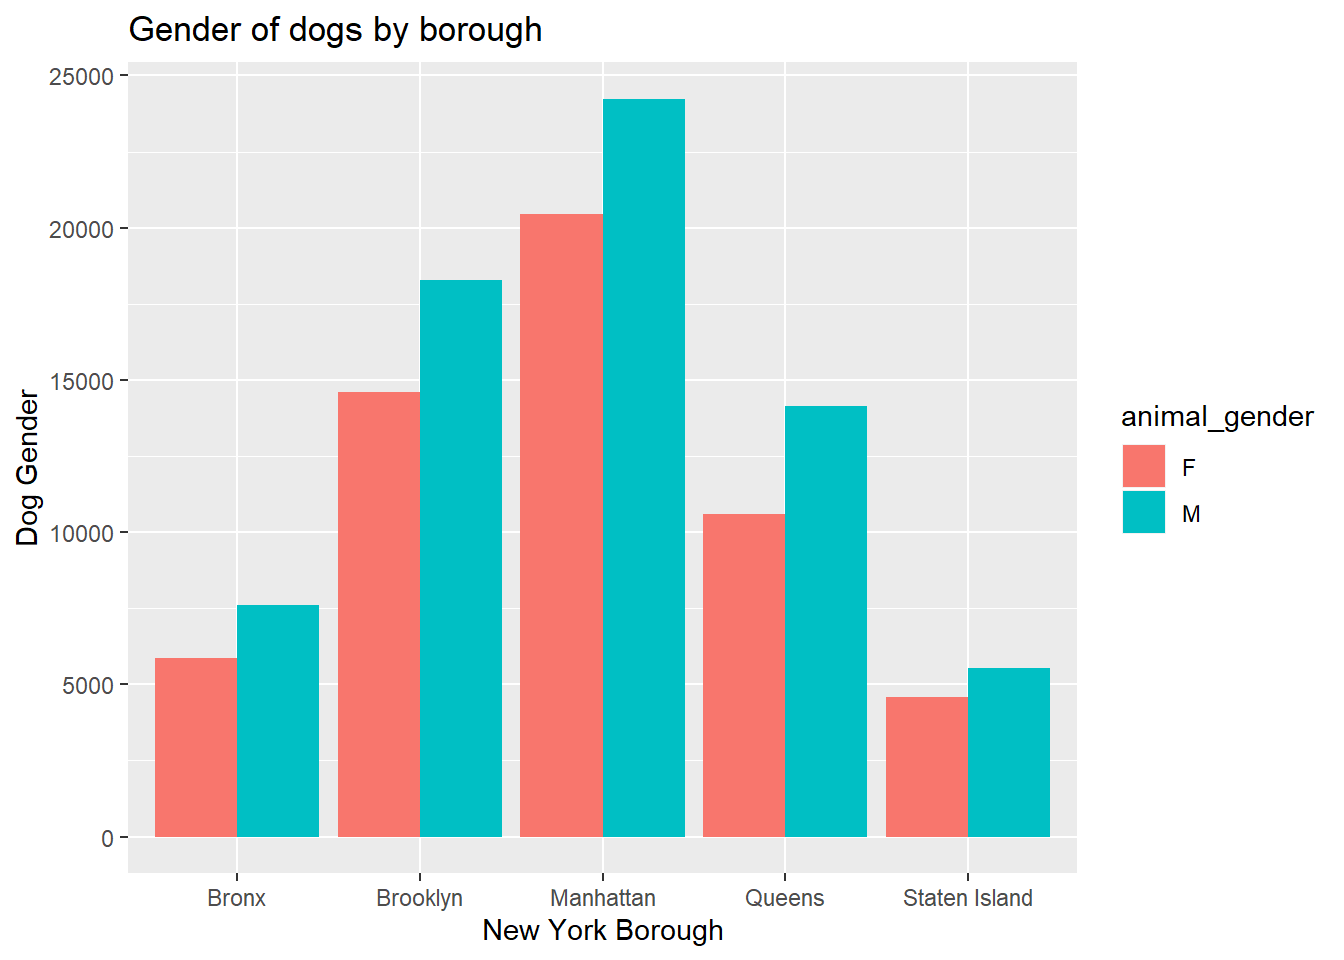
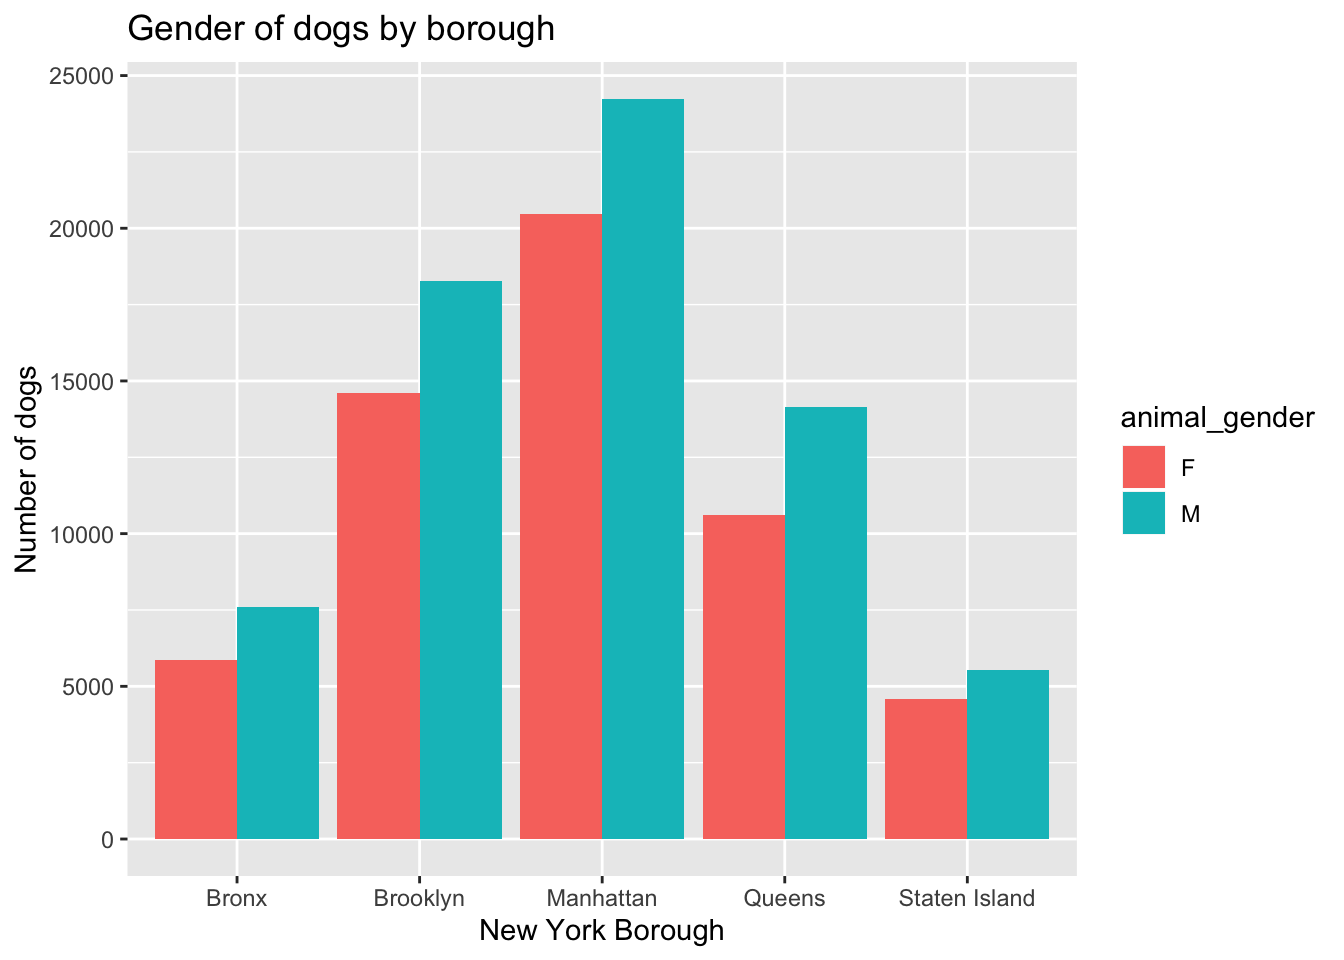
adding in everyone's descriptions of the plots

diff --git a/p8105_final_project_report.html b/p8105_final_project_report.html
@@ -351,7 +351,7 @@ div.tocify {
       </ul>
       <ul class="nav navbar-nav navbar-right">
         <li>
-  <a href="p8105_final_project_report.html">Final Project</a>
+  <a href="p8105_final_project_report.html">Final Project Report</a>
 </li>
 <li>
   <a href="https://rescuedogsrocknyc.org/">Adopt a Dog in NYC</a>
@@ -433,6 +433,9 @@ library(leaflet)</code></pre>
 <p><span class="math inline">\(~\)</span></p>
 <div id="loading-and-cleaning-data" class="section level3">
 <h3>Loading and Cleaning Data</h3>
+<p>The dataset was cleaned and adjusted for this analysis. All dogs whose breed were listed as “unknown” were removed, as well as any dogs who were listed as over 20 years old at the time of their license. Originally there were no boroughs listed in this dataset, so we used the available zip codes to assign boroughs to each record. Records whose zip code did not correlate to a borough were dropped. A variable <code>license_length</code> was added to calculate the length in years of each license. There were slight differences in the way breed names were recorded, these were adjusted to be uniform.</p>
+<p>Variables were changed to appropriate data type where necessary.</p>
+<p>The main database included the same dog multiple times if she had more than one license. We created a subset to catalog only the distinct dogs present in our dataset. To identify individual dogs we matched records on animal name, gender, birth year, and breed name. We also added latitude and longitude data that corresponds to zip code for mapping purposes.</p>
 <p><span class="math inline">\(~\)</span></p>
 </div>
 </div>
@@ -441,8 +444,6 @@ library(leaflet)</code></pre>
 <p><span class="math inline">\(~\)</span></p>
 <div id="loading-and-tidying-the-data" class="section level3">
 <h3>Loading and tidying the data</h3>
-<p>The dataset was cleaned and adjusted for this analysis. All dogs whose breed were listed as “unknown” were removed, as well as any dogs who were listed as over 20 years old at the time of thier license. Originally there were no boroughs listed in this dataset, so we used the available zip codes to assign boroughs to each record. Records whose zip code did not correlate to a borough were dropped. A variable <code>license_length</code> was added to calculate the lenght in years of each license. There were slight differences in the way breed names were recorded, these were adjusted to be uniform.</p>
-<p>Variables were changed to appropriate data type where neccessary.</p>
 <p><span class="math inline">\(~\)</span></p>
 <pre class="r"><code>lat_lon = read.csv(&quot;./data/lat-long.csv&quot;)
 
@@ -494,7 +495,6 @@ dogz = read.csv(&quot;./data/NYC_Dog_Licensing_Dataset.csv&quot;) %&gt;%
   drop_na(borough) %&gt;% 
   rename(animal_birth_year = animal_birth_month, license_id = row_number) %&gt;% 
   select(-extract_year)</code></pre>
-<p>The main database included the same dog multiple times if she had more than one license. We created a subset to catalog only the distinct dogs present in our dataset. To identify individual dogs we matched records on animal name, gender, birth year, and breed name. We also added latitude and longitude data that corresponds to zip code for mapping purposes.</p>
 <pre class="r"><code>dogz_1 =
   dogz %&gt;% 
   distinct(animal_name, animal_gender, animal_birth_year, breed_name, .keep_all = TRUE) %&gt;% 
@@ -515,16 +515,19 @@ distinct_dogz =
   labs(
     title = &quot;Gender of dogs by borough&quot;,
     x = &quot;New York Borough&quot;,
-    y = &quot;Dog Gender&quot;
+    y = &quot;Number of dogs&quot;
   )
 
 plot_2</code></pre>
 <p><img src="p8105_final_project_report_files/figure-html/unnamed-chunk-2-1.png" width="672" /></p>
+<p>Based on this bar graph plotting borough by frequency of dogs, we can see that overall, Manhattan has the most dogs (over 20,000 dogs for each gender) followed by Brooklyn, Queens, The Bronx, and Staten Island (with about 5,000 dogs for each gender). Additionally, among all boroughs there are more male dogs than there are female dogs.</p>
 </div>
 <div id="age-distribution-of-dogs-by-boroughs" class="section level3">
 <h3>Age Distribution of Dogs by Boroughs</h3>
 <pre class="r"><code>plot_3=
-  ggplot(distinct_dogz, aes(x = borough, y = dog_age)) +
+  distinct_dogz %&gt;% 
+  filter(dog_age &lt; 20) %&gt;% 
+  ggplot(aes(x = borough, y = dog_age)) +
   geom_boxplot (color = &quot;purple&quot;) +
   labs(
     title = &quot;Age distribution of dogs by borough&quot;,
@@ -533,27 +536,48 @@ plot_2</code></pre>
   )
 plot_3</code></pre>
 <p><img src="p8105_final_project_report_files/figure-html/unnamed-chunk-3-1.png" width="672" /></p>
+<p>Based on this box and whisker plot, plotting borough dog’s age in years, we can see that overall, the median age for dogs is about 6 years. The Bronx, Brooklyen, and Queens have similar distributions which are right skewed while Manhattan has a smaller range of values. Staten Island has the oldest dogs ranging above 10 years with no outliers shown.</p>
 </div>
 <div id="top-breed-of-dogs-by-borough" class="section level3">
 <h3>Top Breed of dogs by Borough</h3>
+<pre class="r"><code>distinct_dogz %&gt;% 
+  group_by(borough) %&gt;% 
+  count(breed_name) %&gt;% 
+  top_n(5)</code></pre>
+<pre><code>## # A tibble: 25 x 3
+## # Groups:   borough [5]
+##    borough  breed_name                               n
+##    &lt;fct&gt;    &lt;chr&gt;                                &lt;int&gt;
+##  1 Bronx    American Pit Bull Mix / Pit Bull Mix  1344
+##  2 Bronx    Chihuahua                              865
+##  3 Bronx    Maltese                                529
+##  4 Bronx    Shih Tzu                              1035
+##  5 Bronx    Yorkshire Terrier                     1252
+##  6 Brooklyn American Pit Bull Mix / Pit Bull Mix  2012
+##  7 Brooklyn Chihuahua                             1551
+##  8 Brooklyn Labrador Retriever Crossbreed         1083
+##  9 Brooklyn Shih Tzu                              1853
+## 10 Brooklyn Yorkshire Terrier                     1978
+## # … with 15 more rows</code></pre>
 <pre class="r"><code>plot_4=
-  distinct_dogz %&gt;% 
+distinct_dogz %&gt;% 
   group_by(borough) %&gt;% 
   count(breed_name) %&gt;% 
   top_n(5) %&gt;% 
   ggplot(aes(x = breed_name, y = n)) +
   geom_point() +
   theme(axis.text.x = element_text(angle = 90, hjust = 1)) +
-  facet_grid(~borough) +
+  facet_grid(~borough, scales = &quot;free&quot;, space = &quot;free&quot;) +
   labs(
-    title = &quot;Top 10 breeds of dogs by borough&quot;,
+    title = &quot;Top 5 breeds of dogs by borough&quot;,
     x = &quot;Dog Breed&quot;,
     y = &quot;Total Count&quot;
   )
 plot_4</code></pre>
 <p><img src="p8105_final_project_report_files/figure-html/unnamed-chunk-4-1.png" width="672" /></p>
+<p>Based on this plot, plotting dog breed by the total count, the most common dog breeds are American Pit Bull Mix/Pit Bull Mix, Chihuahua, Labrador Retriever, Labrador Retriever Crossbreed, Maltese, Shih Tzu, and Yorkshire Terrier. American Pit Bull Mix/Pit Bull Mix has the highest observed frequency in Brooklyn (n =2000) while the lowest in Staten Island (n = 600). Additionally, in Manhattan, Chihuahua’s, and Yorkshire Terriers have the highest observed frequency.</p>
 </div>
-<div id="number-of-licenses-over-time-license-issue-date-vs.-number-of-licenses" class="section level3">
+<div id="number-of-licenses-over-time-license-issue-date-vs.number-of-licenses" class="section level3">
 <h3>Number of licenses over time (license issue date vs. number of licenses)</h3>
 <pre class="r"><code>plot_5.5=
   dogz %&gt;% 
@@ -568,7 +592,7 @@ plot_4</code></pre>
 plot_5.5</code></pre>
 <p><img src="p8105_final_project_report_files/figure-html/unnamed-chunk-5-1.png" width="672" /></p>
 </div>
-<div id="number-of-licenses-issued-per-month-liscence-issue-date-vs.-number-of-liscences" class="section level3">
+<div id="number-of-licenses-issued-per-month-liscence-issue-date-vs.number-of-liscences" class="section level3">
 <h3>Number of licenses issued per month (liscence issue date vs. number of liscences)</h3>
 <pre class="r"><code>plot_5.51=
   dogz %&gt;% 
@@ -749,6 +773,7 @@ fit %&gt;%
 </tr>
 </tbody>
 </table>
+<p>In our linear model we predict our outcome of dog’s age given our main exposure of borough, adjusting for dog’s gender. Our beta values show that there is not much variance among dog age across different boroughs for both male and female dogs. Additionally, as seen in our residuals plot, our data does not likely contain outliers and appears to be normally distributed. One limitation to our model is the exclusion of breeds type as a variable in our model. There is a theory that small dogs tend to live longers lives, thus in an ideal model we would have controlled for dog breed by categorizing breed size as small, medium, large breed. Unfortunately, the large number of breed types included in our dataset impeded our ability to categorizing each breed, and without categorizing this variable our degrees of freedom would be far too high for our model to be parsimonious. For these reasons we chose to exclude this variable from our model.</p>
 <pre class="r"><code>#graph residuals for each borough
 distinct_dogz_reg %&gt;% 
   modelr::add_residuals(fit) %&gt;% 
